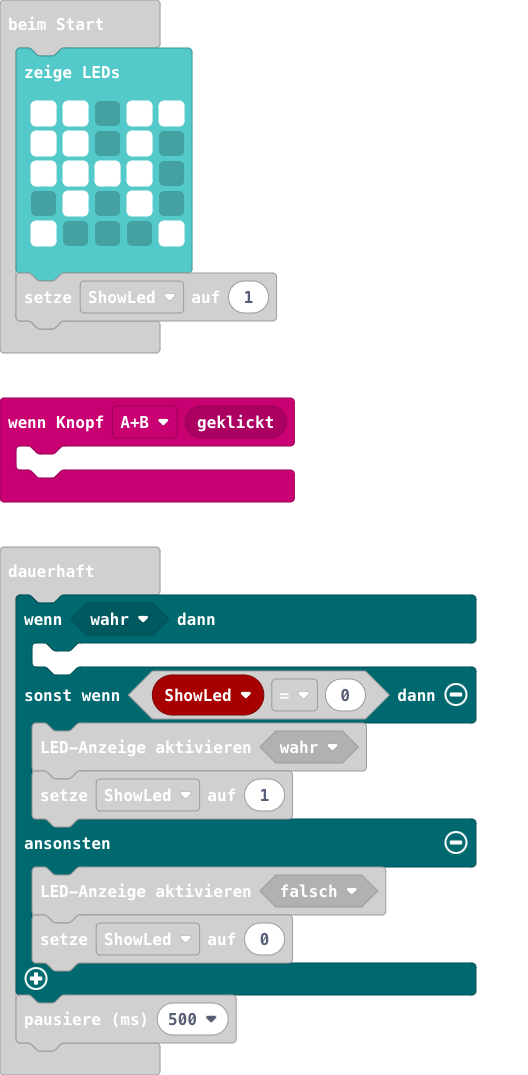
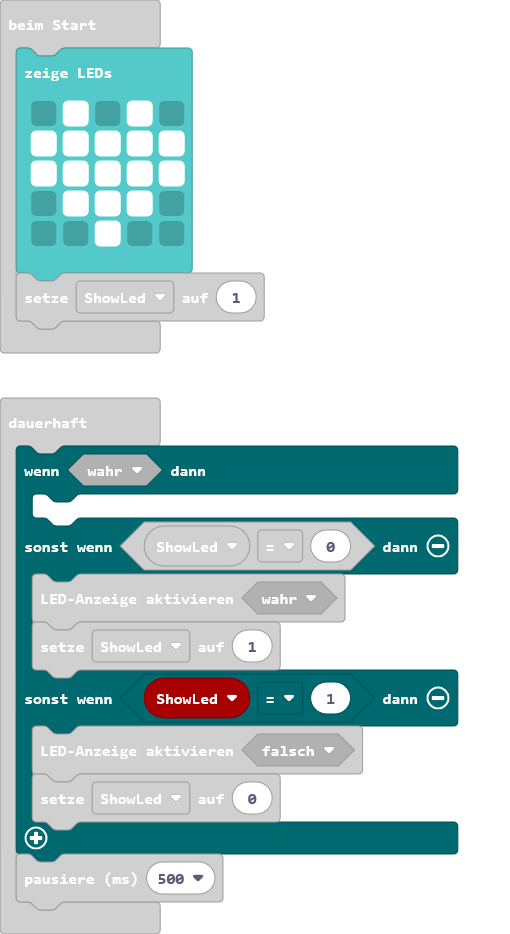
Aktualisiere main.blocks, main.ts

diff --git a/main.ts b/main.ts
@@ -2,11 +2,11 @@ input.onButtonEvent(Button.AB, input.buttonEventClick(), function () {
 	
 })
 basic.showLeds(`
-    # # . # #
-    # # . # .
-    # # # # .
     . # . # .
-    # . . . #
+    # # # # #
+    # # # # #
+    . # # # .
+    . . # . .
     `)
 let ShowLed = 1
 basic.forever(function () {
@@ -15,7 +15,7 @@ basic.forever(function () {
     } else if (ShowLed == 0) {
         led.enable(true)
         ShowLed = 1
-    } else {
+    } else if (ShowLed == 1) {
         led.enable(false)
         ShowLed = 0
     }
